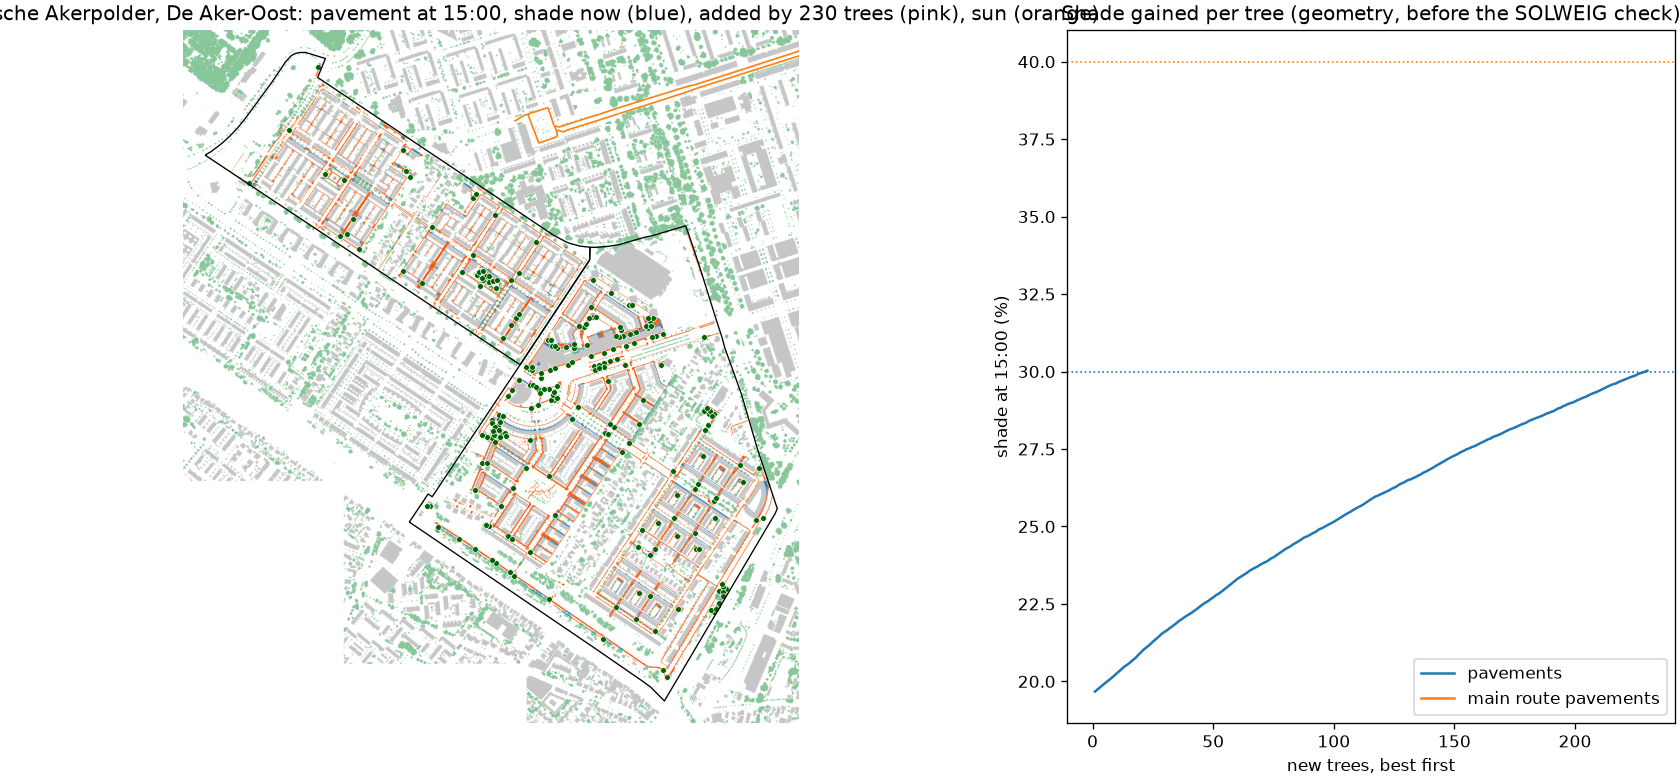
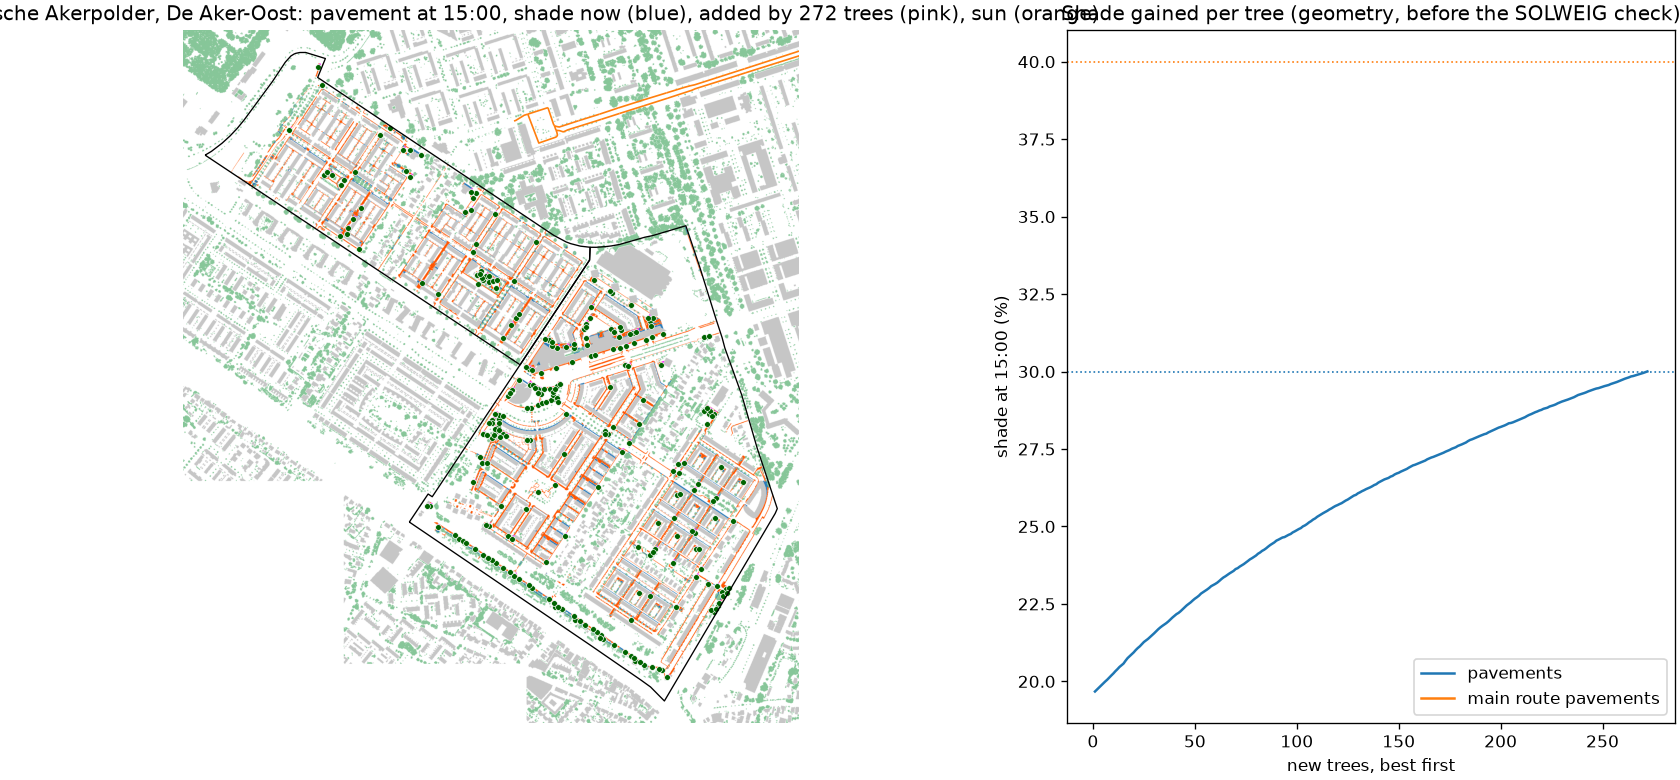
Tree plans checked with the full model on 1 July 2015 and 25 July 2019

diff --git a/docs/trees_osdorpplein.md b/docs/trees_osdorpplein.md
@@ -1,17 +1,17 @@
 # New trees for Osdorpplein e.o.
 
-35 new trees, each 12 m tall with an 8 m crown, chosen one at a time where they add the most shade on 65067 m2 of pavement (17017 m2 along the main walking routes), from 9198 possible spots on public pavement and green at least 4 m from facades and 5 m from existing crowns. Cables and pipes are not in open data, so every spot needs the city's check. The full model (SOLWEIG and PET, 1 July 2015) is then run with and without the trees.
+55 new trees, each 12 m tall with an 8 m crown, chosen one at a time where they add the most shade on 65067 m2 of pavement (17017 m2 along the main walking routes), from 2996 possible spots on public pavement and green at least 4 m from facades and 5 m from existing crowns. Cables and pipes are not in open data, so every spot needs the city's check. The full model (SOLWEIG and PET, 2015-07-01) is then run with and without the trees.
 
 | On the neighbourhood's pavements | Now | With the trees | Search estimate |
 |---|---|---|---|
-| Pavement shade at 11:00 | 30% | 33% |  |
-| Pavement shade at 15:00 | 27% | 31% | 31% |
-| Pavement shade at 17:00 | 31% | 35% |  |
+| Pavement shade at 11:00 | 30% | 35% |  |
+| Pavement shade at 15:00 | 27% | 32% | 33% |
+| Pavement shade at 17:00 | 31% | 37% |  |
 | Main route pavement shade at 15:00 | 28% | 40% | 40% |
-| Mean Tmrt on pavements at 15:00 | 57.5 C | 56.3 C |  |
-| Mean afternoon PET on pavements | 42.6 C | 42.1 C |  |
-| Pavement above 41 C PET | 62% | 58% |  |
+| Mean Tmrt on pavements at 15:00 | 57.5 C | 55.5 C |  |
+| Mean afternoon PET on pavements | 42.6 C | 41.9 C |  |
+| Pavement above 41 C PET | 62% | 55% |  |
 
-Where the new crowns shade the pavement (7082 m2), Tmrt at 15:00 drops by 11 C and afternoon PET by 4.5 C on average.
+Where the new crowns shade the pavement (11099 m2), Tmrt at 15:00 drops by 11 C and afternoon PET by 4.4 C on average.
 
 ![Tree plan](../figures/trees_osdorpplein.png)

diff --git a/docs/trees_de-aker.md b/docs/trees_de-aker.md
@@ -1,16 +1,16 @@
 # New trees for Middelveldsche Akerpolder, De Aker-Oost
 
-189 new trees, each 12 m tall with an 8 m crown, chosen one at a time where they add the most shade on 104848 m2 of pavement (0 m2 along the main walking routes), from 21693 possible spots on public pavement and green at least 4 m from facades and 5 m from existing crowns. Cables and pipes are not in open data, so every spot needs the city's check. The full model (SOLWEIG and PET, 1 July 2015) is then run with and without the trees.
+272 new trees, each 12 m tall with an 8 m crown, chosen one at a time where they add the most shade on 104848 m2 of pavement (0 m2 along the main walking routes), from 13185 possible spots on public pavement and green at least 4 m from facades and 5 m from existing crowns. Cables and pipes are not in open data, so every spot needs the city's check. The full model (SOLWEIG and PET, 2015-07-01) is then run with and without the trees.
 
 | On the neighbourhood's pavements | Now | With the trees | Search estimate |
 |---|---|---|---|
-| Pavement shade at 11:00 | 25% | 31% |  |
+| Pavement shade at 11:00 | 25% | 33% |  |
 | Pavement shade at 15:00 | 20% | 30% | 30% |
-| Pavement shade at 17:00 | 33% | 43% |  |
-| Mean Tmrt on pavements at 15:00 | 58.2 C | 54.9 C |  |
-| Mean afternoon PET on pavements | 42.1 C | 40.9 C |  |
+| Pavement shade at 17:00 | 33% | 44% |  |
+| Mean Tmrt on pavements at 15:00 | 58.2 C | 54.7 C |  |
+| Mean afternoon PET on pavements | 42.1 C | 40.8 C |  |
 | Pavement above 41 C PET | 65% | 52% |  |
 
-Where the new crowns shade the pavement (23517 m2), Tmrt at 15:00 drops by 14 C and afternoon PET by 5.3 C on average.
+Where the new crowns shade the pavement (26367 m2), Tmrt at 15:00 drops by 13 C and afternoon PET by 4.9 C on average.
 
 ![Tree plan](../figures/trees_de-aker.png)

diff --git a/docs/trees_osdorpplein_2019-07-25.md b/docs/trees_osdorpplein_2019-07-25.md
@@ -1,0 +1,17 @@
+# New trees for Osdorpplein e.o.
+
+55 new trees, each 12 m tall with an 8 m crown, chosen one at a time where they add the most shade on 65067 m2 of pavement (17017 m2 along the main walking routes), from 2996 possible spots on public pavement and green at least 4 m from facades and 5 m from existing crowns. Cables and pipes are not in open data, so every spot needs the city's check. The full model (SOLWEIG and PET, 2019-07-25) is then run with and without the trees.
+
+| On the neighbourhood's pavements | Now | With the trees | Search estimate |
+|---|---|---|---|
+| Pavement shade at 11:00 | 32% | 37% |  |
+| Pavement shade at 15:00 | 30% | 35% | 33% |
+| Pavement shade at 17:00 | 33% | 38% |  |
+| Main route pavement shade at 15:00 | 30% | 43% | 40% |
+| Mean Tmrt on pavements at 15:00 | 58.7 C | 56.6 C |  |
+| Mean afternoon PET on pavements | 46.0 C | 45.1 C |  |
+| Pavement above 41 C PET | 79% | 74% |  |
+
+Where the new crowns shade the pavement (12092 m2), Tmrt at 15:00 drops by 10 C and afternoon PET by 4.4 C on average.
+
+![Tree plan](../figures/trees_osdorpplein.png)

diff --git a/docs/trees_de-aker_2019-07-25.md b/docs/trees_de-aker_2019-07-25.md
@@ -1,0 +1,16 @@
+# New trees for Middelveldsche Akerpolder, De Aker-Oost
+
+272 new trees, each 12 m tall with an 8 m crown, chosen one at a time where they add the most shade on 104848 m2 of pavement (0 m2 along the main walking routes), from 13185 possible spots on public pavement and green at least 4 m from facades and 5 m from existing crowns. Cables and pipes are not in open data, so every spot needs the city's check. The full model (SOLWEIG and PET, 2019-07-25) is then run with and without the trees.
+
+| On the neighbourhood's pavements | Now | With the trees | Search estimate |
+|---|---|---|---|
+| Pavement shade at 11:00 | 26% | 34% |  |
+| Pavement shade at 15:00 | 21% | 32% | 30% |
+| Pavement shade at 17:00 | 35% | 45% |  |
+| Mean Tmrt on pavements at 15:00 | 59.5 C | 56.1 C |  |
+| Mean afternoon PET on pavements | 45.9 C | 44.6 C |  |
+| Pavement above 41 C PET | 84% | 74% |  |
+
+Where the new crowns shade the pavement (27943 m2), Tmrt at 15:00 drops by 12 C and afternoon PET by 5.0 C on average.
+
+![Tree plan](../figures/trees_de-aker.png)
